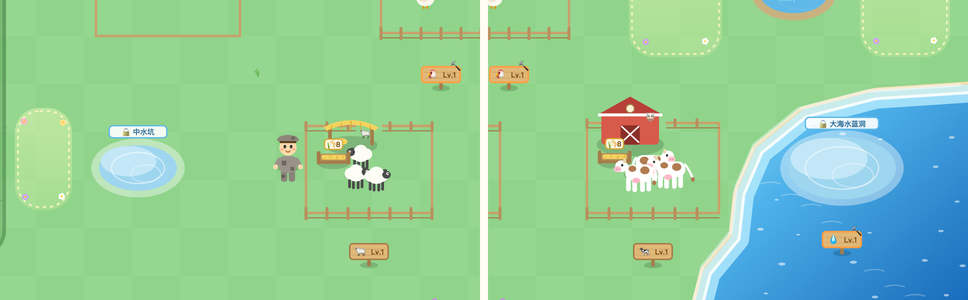
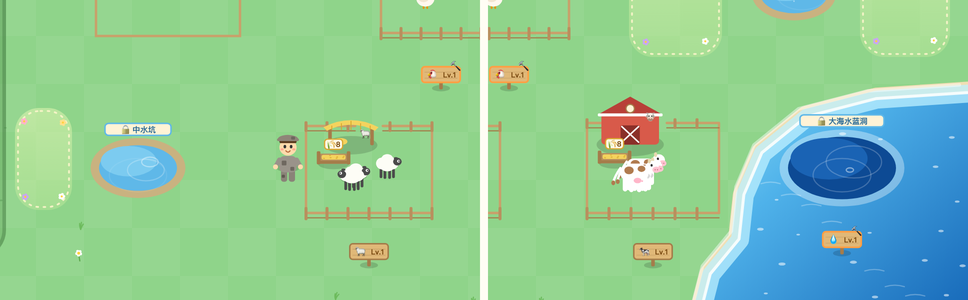
💧 未解锁的水坑和已解锁的完全一模一样（连深浅都不差）
- drawPond 干脆去掉 locked 的单独画法：三个水坑不管解锁与否都走同一段水面的画法
  （岸边沙圈、水色、深浅、水面高光、三圈水纹全部一致），locked 只用来决定名牌前缀
  （没解锁写「🔒 名字」、解锁写「💧 名字」）
- 小地图上也不再区分：统一 #63c6f7
- 验证：把同一个水坑分别按「锁住 / 解锁」各画一遍（固定同一个时刻），
  逐像素比对水面区域 —— 三个水坑 × 三个等级 **全部 0 字节差异**；
  小地图锁/解锁颜色也都等于 rgb(99,198,247)；控制台 0 报错

diff --git a/sprites.js b/sprites.js
@@ -1772,34 +1772,9 @@ function drawStall(ctx, x, y, t, sc) {
 }
 
 function drawPond(ctx, x, y, w, h, t, label, locked, needLv, deep) {
-  // 还没解锁的水坑：**也画成一汪蓝色的水**（只是蓝得淡一点、不晃波纹），
-  // 名牌上挂一把 🔒 提醒「升级水坑才会开放」——小朋友看地图就是三个水坑都在
-  if (locked) {
-    ctx.fillStyle = 'rgba(255,255,255,.4)';                 // 岸边浅色沙圈
-    ellipse(ctx, x, y, w / 2 + 13, h / 2 + 11); ctx.fill();
-    ctx.fillStyle = '#9fd6ef';                              // 淡水蓝
-    ellipse(ctx, x, y, w / 2, h / 2); ctx.fill();
-    ctx.fillStyle = '#c3e7f7';                              // 水面高光
-    ellipse(ctx, x - w * 0.12, y - h * 0.15, w / 2.8, h / 3); ctx.fill();
-    ctx.strokeStyle = 'rgba(255,255,255,.55)'; ctx.lineWidth = 2;
-    ellipse(ctx, x, y, w / 2 * 0.68, h / 2 * 0.68); ctx.stroke();
-    ctx.strokeStyle = 'rgba(255,255,255,.35)';
-    ellipse(ctx, x + w * 0.1, y + h * 0.12, w / 2 * 0.38, h / 2 * 0.38); ctx.stroke();
-    if (label) {
-      const txt = '🔒 ' + label;
-      const sw = Math.max(66, txt.length * 13 + 18);
-      const sy = y - h / 2 - 32 + Math.sin(t * 1.8) * 1.5;
-      ctx.fillStyle = 'rgba(255,255,255,.9)';
-      rr(ctx, x - sw / 2, sy, sw, 20, 6); ctx.fill();
-      ctx.strokeStyle = '#5fb8e8'; ctx.lineWidth = 2.2;
-      rr(ctx, x - sw / 2, sy, sw, 20, 6); ctx.stroke();
-      ctx.fillStyle = '#2a6a95';
-      ctx.font = 'bold 12px sans-serif'; ctx.textAlign = 'center';
-      ctx.fillText(txt, x, sy + 15);
-    }
-    return;
-  }
-  // deep = 大海里的「蓝洞」：比周围的海水更深、更蓝
+  // 水坑的水**不管有没有解锁都画成完全一样**（颜色、深浅、岸边沙圈、水纹波纹一模一样，
+  // 连一个像素都不差）；没解锁的只在名牌上多挂一把 🔒，走过去会提示去升级水坑
+  // deep = 大海里的「蓝洞」：比周围的海水更深、更蓝（解锁与否都一样）
   ctx.fillStyle = deep ? 'rgba(255,255,255,.35)' : '#c9b280';
   ellipse(ctx, x, y, w / 2 + 14, h / 2 + 12); ctx.fill();
   ctx.fillStyle = deep ? '#0d4a94' : '#5fb8e8';
@@ -1814,9 +1789,10 @@ function drawPond(ctx, x, y, w, h, t, label, locked, needLv, deep) {
     ctx.stroke();
   }
   ctx.globalAlpha = 1;
-  // 水坑名牌
+  // 水坑名牌（没解锁的多一把 🔒）
   if (label) {
-    const sw = Math.max(58, label.length * 15 + 20);
+    const txt = (locked ? '🔒 ' : '💧 ') + label;
+    const sw = Math.max(58, txt.length * 15 + 20);
     const sx = x - sw / 2, sy = y - h / 2 - 36 + Math.sin(t * 1.8) * 1.5;
     ctx.fillStyle = '#fff3d6';
     rr(ctx, sx, sy, sw, 20, 6); ctx.fill();
@@ -1824,7 +1800,7 @@ function drawPond(ctx, x, y, w, h, t, label, locked, needLv, deep) {
     rr(ctx, sx, sy, sw, 20, 6); ctx.stroke();
     ctx.fillStyle = '#2a6a95';
     ctx.font = 'bold 13px sans-serif'; ctx.textAlign = 'center';
-    ctx.fillText('💧 ' + label, x, sy + 15);
+    ctx.fillText(txt, x, sy + 15);
   }
 }
 
@@ -1832,8 +1808,6 @@ function drawPond(ctx, x, y, w, h, t, label, locked, needLv, deep) {
  * 升级系统的场景元素
  * ---------------------------------------------------------- */
 
-// 「以后会扩到这里」的虚线框：1、2 级时把下一次扩建的范围画出来，
-// 地图上就一眼能看出「这里留着地方给它长大」。
 // 以前用来画「扩建预留区」的白色虚线框：现在地图上不再画预留区了（函数留着备用）
 function drawExpandOutline(ctx, rect, t, text) {
   if (!rect) return;

diff --git a/game.js b/game.js
@@ -6512,7 +6512,7 @@ function renderMinimap() {
     mctx.beginPath();
     mctx.ellipse(spec.x * MINI_K, spec.y * MINI_K,
                  Math.max(2, sz.w / 2 * MINI_K), Math.max(2, sz.h / 2 * MINI_K), 0, 0, Math.PI * 2);
-    mctx.fillStyle = p.locked ? '#9fd6ef' : '#63c6f7';   // 没解锁的也是蓝色（淡一点）
+    mctx.fillStyle = '#63c6f7';                           // 有没有解锁都是同一个蓝
     mctx.fill();
   }
   // 房子：主角家 / 衣柜 / 厨房 / 宠物房 / 卖货箱 / 水族箱 / 商店 / 销售门面

diff --git a/README.md b/README.md
@@ -47,7 +47,7 @@ python3 -m http.server 8000
 | 🐑🐄 动物分区 | 羊棚、牛棚各自独立围栏和小窝：羊闲逛剪羊毛、牛摇尾巴挤奶 —— 全部自主移动且有动画。上限也跟着等级走：羊棚 **2 → 4 → 6** 只，牛棚 **2 → 4 → 6** 头 |
 | 🌱 种田（12 种蔬菜） | 耕地 → 播种 → 浇水 → 收获：胡萝卜、番茄、玉米、**豌豆、生菜、青椒、西兰花、黄瓜、甜菜根、土豆、洋葱、大蒜**。每种有自己的种子价 / 卖价 / 生长速度（商店会写「约 N 秒长好」），浇水或下雨长得快 4 倍。种子按**商店等级**分三批开放 |
 | 🍎 果园 | **13 种水果**：苹果、橘子、梨子、桃子、草莓，加上从 Noto 动画食物清单补的 **樱桃、西瓜、芒果、菠萝、柠檬、甜瓜、葡萄、奇异果**，摇一摇掉下来，过段时间再长出来。一开始只有 **2 棵**（苹果 + 橘子），其它果树要**在商店买「果树苗」**——买一棵就自动种进果园的树坑里；果园升级后树坑从 **2 个 → 6 个 → 13 个** |
-| 🎣 三个水坑 | 农场上有**三个不同位置的水坑**：💧小水坑（第三排）、💧中水坑（第四排）、💧**大海水蓝洞**（第四排最右，原来的大水坑，**和右下角那片大海连在一起**；各有名牌，尺寸与波纹大小递增）。**每个水坑 5 种渔获，共 15 种鱼和海洋生物**：小水坑出小鱼/小虾/贝壳/金鱼/螃蟹；中水坑出鱿鱼/河豚/章鱼/龙虾/海龟；大海水蓝洞出鳄鱼/海豹/海豚/鲨鱼/鲸鱼。三个水坑**按「水坑」等级依次解锁**：1 级只有小水坑（5 种），2 级多一个中水坑（10 种），3 级三个全开（15 种）——**没解锁的水坑也画成蓝色的水**（只是蓝得淡一点、水面不晃波纹），名牌上挂一把 🔒，走过去会提示去升级。鱼竿握在手里，鱼线从竿尖甩出 |
+| 🎣 三个水坑 | 农场上有**三个不同位置的水坑**：💧小水坑（第三排）、💧中水坑（第四排）、💧**大海水蓝洞**（第四排最右，原来的大水坑，**和右下角那片大海连在一起**；各有名牌，尺寸与波纹大小递增）。**每个水坑 5 种渔获，共 15 种鱼和海洋生物**：小水坑出小鱼/小虾/贝壳/金鱼/螃蟹；中水坑出鱿鱼/河豚/章鱼/龙虾/海龟；大海水蓝洞出鳄鱼/海豹/海豚/鲨鱼/鲸鱼。三个水坑**按「水坑」等级依次解锁**：1 级只有小水坑（5 种），2 级多一个中水坑（10 种），3 级三个全开（15 种）——**没解锁的水坑和已解锁的画得完全一模一样**（水色、深浅、岸边沙圈、水纹波纹一个像素都不差），只在名牌上多挂一把 🔒，走过去会提示去升级水坑。鱼竿握在手里，鱼线从竿尖甩出 |
 | 🐠 大型水族箱 | 农场上有一座**超大鱼缸**，摆在第一排、独占果园右边一整片（玻璃箱尺寸跟着等级变大：**320 → 570 → 860 宽**），钓到的鱼可以**从背包里选出来放进去**，也可以**随时取出**；箱里的鱼会在玻璃箱内部自己游来游去、游到边界自己掉头，招牌显示当前数量。容量：**6 → 12 → 20 条** |
 | 🌳 森林 & 蜂巢 | **农场最左边一列**是一大片竖着的森林（从第二排一直铺到第四排），里面有两样能采的东西：树上挂着的 **蜂巢**（走过去按 E 拿 **🍯 蜂蜜**，过一会儿会再酿出来）和地上的 **🍄 蘑菇**（按 E 采走，**过 40 秒或睡一觉就长回来**，共 7 个采摘点）。蜂蜜和蘑菇都能直接卖钱，也能拿来做菜 |
 | 🍳 烹饪 | 厨房共 **18 道菜**，全部只用玩家真能拿到的材料：煎蛋、水果沙拉、烤鱼、蛋奶布丁、**蘑菇蛋卷**、**蘑菇浓汤**、蜂蜜吐司、蜂蜜蛋糕、**蔬菜浓汤**、草莓蛋糕、**水果派**、**海鲜小炒**、**番茄意面**、**松饼**、**甜甜圈**、**蜂蜜饼干**、**爆米花**、**田园披萨**。每道菜的卖价都高于材料价（不会亏本）。**厨房等级决定能做几道**：1 级 6 道 → 2 级 12 道 → 3 级全部 18 道（没解锁的显示 🔒） |
@@ -221,9 +221,10 @@ python3 -m http.server 8000
     老存档读进来会自动把主角送回小屋门口、动物送回自己的棚舍
     （存档版本 v1 → v2）。
 
-22. **💧 没解锁的水坑也显示成蓝色**：以前中水坑 / 大海水蓝洞没解锁时画成干涸的**土坑 + 🔒**，
-    现在**一样画成一汪蓝色的水**（淡蓝 + 水面高光 + 两圈水纹，就是比已解锁的淡一点、不晃波纹），
-    名牌上仍然挂 🔒 提醒「升级水坑才会开放」；小地图上也是蓝色。
+22. **💧 没解锁的水坑和已解锁的完全一样**：以前中水坑 / 大海水蓝洞没解锁时画成干涸的**土坑 + 🔒**，
+    前一版改成了「淡一点的蓝色」，现在**连深浅都不差了 —— 水里一个像素都一样**
+    （同一时刻逐像素比对过，三个水坑 × 三个等级全部 0 差异）；只有名牌上多挂一把 🔒
+    提醒「升级水坑才会开放」，小地图上也用同一个蓝。
 21. **🗺 小地图挪到左上角 + 不再显示扩建预留区**：小地图从右上角搬到**左上角**（金币 / 天数 / 时间那一排下面），
     📖 图鉴 / ❓ 帮助留在右上角；**所有设施的「扩建预留区」和白色虚线框都不再画出来**了
     （订好了的扩建位置照样存在，升级之后占地直接变大，只是地图上不提前圈出来）。
@@ -252,7 +253,7 @@ python3 -m http.server 8000
     三件都做到 100% 才点亮「😴 去睡觉」，点它才换天。
 
 > 附：本次验证截图在 `assets/verify/`（`bedtime-step1.png` / `bedtime-half.png` / `bedtime-done.png` = 睡前刷牙小游戏；
-> `ponds-blue.png` = 没解锁的中水坑 / 大海水蓝洞现在也是蓝色的；`ui-layout.png` = 小地图在左上角、没有扩建虚线框的新界面；`farm-log.png` = 加宽加高、长句换行后的牧场日志；`decor-on-top.png` = 升级前 / 后在预留地摆的装饰（升级后画在最外层）；`pet-house-and-decor-patches.png` = 缩小后的宠物房和装饰空地；`sea-corner.png` = 右下角的大海；`layout-overview.png` = 新四排布局全地图总览；
+> `ponds-blue.png` = 没解锁的中水坑 / 大海水蓝洞（水色和已解锁的完全一样，只有名牌挂 🔒）；`ui-layout.png` = 小地图在左上角、没有扩建虚线框的新界面；`farm-log.png` = 加宽加高、长句换行后的牧场日志；`decor-on-top.png` = 升级前 / 后在预留地摆的装饰（升级后画在最外层）；`pet-house-and-decor-patches.png` = 缩小后的宠物房和装饰空地；`sea-corner.png` = 右下角的大海；`layout-overview.png` = 新四排布局全地图总览；
 > `ui-layout.png` = 右上角小地图 / 图鉴帮助 + 左下角牧场日志的新界面；
 > `upgrade/` = 1 级与 3 级地图对比、升级面板、衣帽间四类、宠物房间、找零算式）。
 
